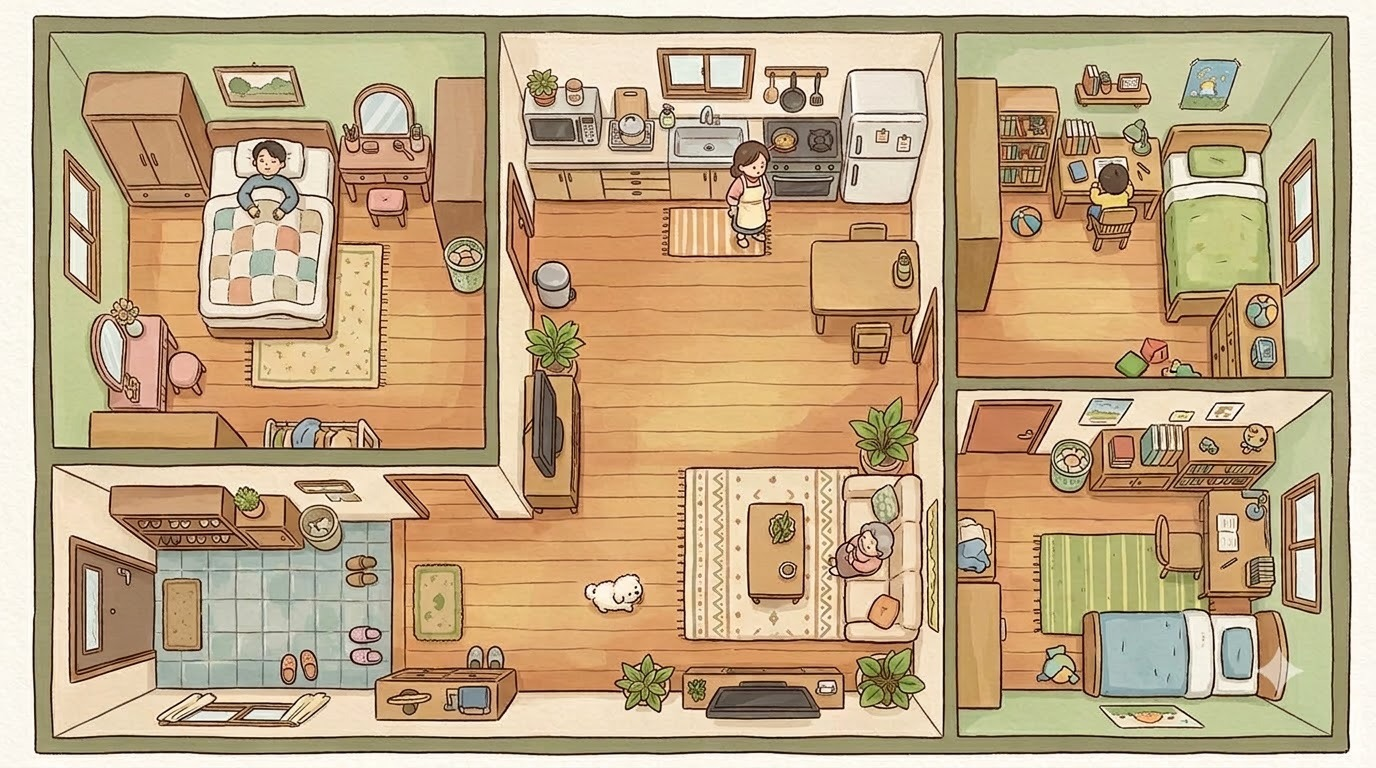
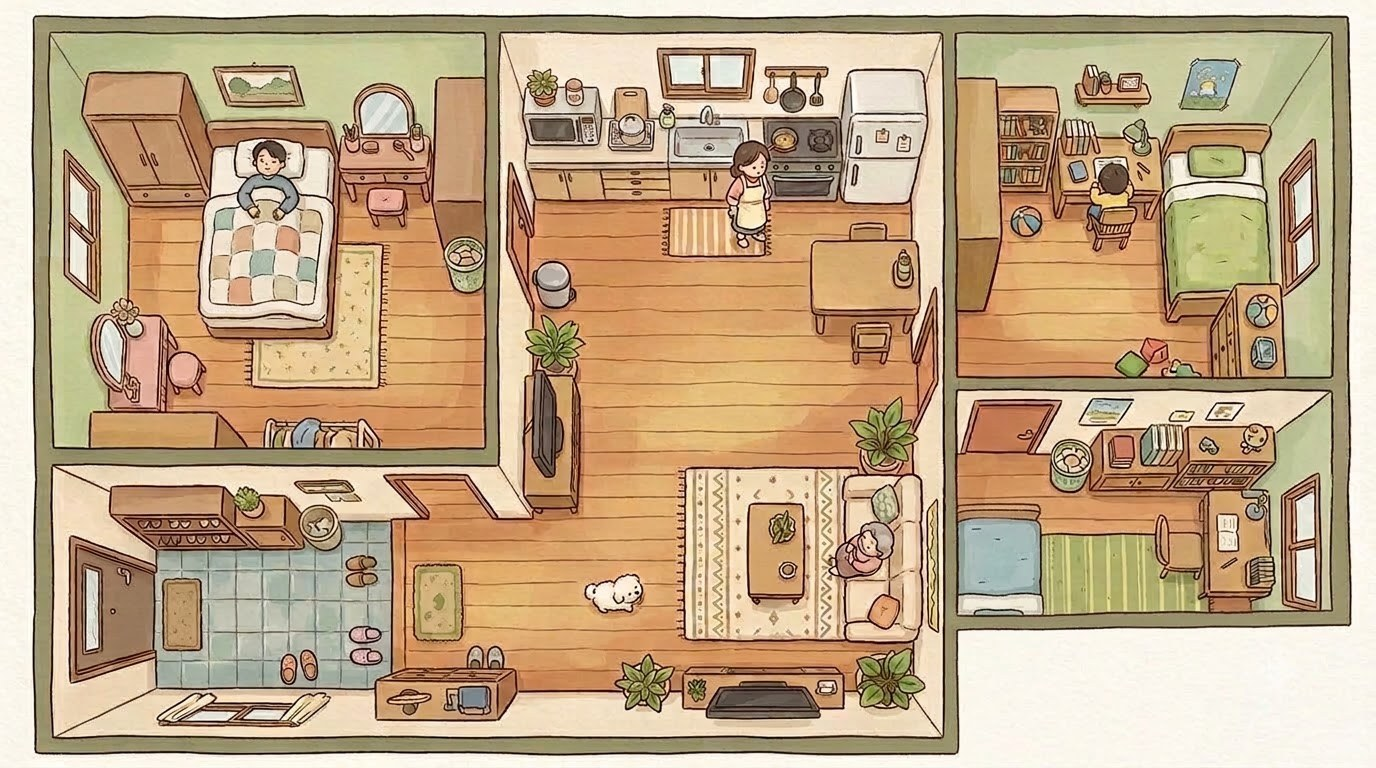
Redraw home map with white bottom-right corner; adjust bedroom layout

diff --git a/vi/index.html b/vi/index.html
@@ -223,11 +223,11 @@ const KS=t=>`<button class="chip" data-say="${t}">${t}</button>`;
 /* ---------- scenes ---------- */
 const SCENES={
  home:{map:'map.jpg',
-  walk:[[130,200,480,440],[470,180,540,290],[520,200,930,665],[150,545,530,665],[395,500,530,700],[1000,220,1330,375],[920,300,1010,380],[1000,450,1330,720],[920,400,1010,470]],
-  block:[[195,115,340,340],[85,300,205,410],[85,405,250,445],[260,410,385,445],[440,235,490,295],[805,225,920,340],[530,260,575,310],[515,360,585,515],[525,315,585,370],[740,495,810,605],[835,470,930,645],[850,400,920,470],[720,150,775,250],[585,570,640,615],[615,650,675,700],[105,480,305,550],[370,660,520,725],[1050,140,1165,230],[1160,120,1280,320],[1210,280,1285,375],[1110,340,1200,380],[1080,410,1280,490],[1195,490,1260,600],[1150,510,1210,580],[955,505,1000,600],[1075,605,1295,705]],
-  spots:{mom:[748,195],fridge:[883,135],water:[905,262],dad:[268,175],grandma:[858,553],dog:[612,592],tv:[548,440],sib:[1110,190],bag:[975,550],shoes:[362,610],book:[1160,450],door:[100,610]},
-  start:[1040,560],
-  props:[{id:'bag',img:'it_backpack.png',x:975,y:575,w:58,gone:()=>G.wear}],
+  walk:[[130,200,480,440],[470,180,540,290],[520,200,930,665],[150,545,530,665],[395,500,530,700],[1000,220,1330,375],[920,300,1010,380],[1000,450,1330,600],[920,400,1010,470]],
+  block:[[195,115,340,340],[85,300,205,410],[85,405,250,445],[260,410,385,445],[440,235,490,295],[805,225,920,340],[530,260,575,310],[515,360,585,515],[525,315,585,370],[740,495,810,605],[835,470,930,645],[850,400,920,470],[720,150,775,250],[585,570,640,615],[615,650,675,700],[105,480,305,550],[370,660,520,725],[1050,140,1165,230],[1160,120,1280,320],[1210,280,1285,375],[1110,340,1200,380],[1080,410,1280,490],[1195,490,1260,600],[1150,510,1210,580],[950,500,1045,615]],
+  spots:{mom:[748,195],fridge:[883,135],water:[905,262],dad:[268,175],grandma:[858,553],dog:[612,592],tv:[548,440],sib:[1110,190],bag:[1095,555],shoes:[362,610],book:[1160,450],door:[100,610]},
+  start:[1100,520],
+  props:[{id:'bag',img:'it_backpack.png',x:1095,y:580,w:58,gone:()=>G.wear}],
   treasures:{shoes:{item:'snack'}},
   gossip:{grandma:{line:()=>`우리 강아지는 ${K('snack')}을 아주 좋아해.`}},
   faces:{mom:['map.jpg',1376,768,715,140,72],dad:['map.jpg',1376,768,233,140,72],grandma:['map.jpg',1376,768,823,518,72],sib:['map.jpg',1376,768,1075,152,72]},
@@ -306,7 +306,7 @@ const SCENES={
  chat:{chat:true,label:'문자',missions:[{vi:()=>''}]}
 };
 ['walk','block','faces','pops','props','treasures','gossip'].forEach(k=>{SCENES.evening[k]=SCENES.home[k];});
-SCENES.evening.spots=Object.assign({},SCENES.home.spots,{mybed:[1110,640]});
+SCENES.evening.spots=Object.assign({},SCENES.home.spots,{mybed:[1065,560]});
 SCENES.home.doneMsg=()=>`아침 끝! 이제 ${K('school')}에 가요.`;SCENES.home.nextBtn=()=>`${K('school')} 가기 →`;
 /* night chat (Mystic-Messenger style): Sua, then the friend picked after school */
 const TL='vi';const HN={f:{ko:"린",vi:"Linh"},m:{ko:"민",vi:"Minh"}};

diff --git a/ko/index.html b/ko/index.html
@@ -223,11 +223,11 @@ const KS=t=>`<button class="chip" data-say="${t}">${t}</button>`;
 /* ---------- scenes ---------- */
 const SCENES={
  home:{map:'map.jpg',
-  walk:[[130,200,480,440],[470,180,540,290],[520,200,930,665],[150,545,530,665],[395,500,530,700],[1000,220,1330,375],[920,300,1010,380],[1000,450,1330,720],[920,400,1010,470]],
-  block:[[195,115,340,340],[85,300,205,410],[85,405,250,445],[260,410,385,445],[440,235,490,295],[805,225,920,340],[530,260,575,310],[515,360,585,515],[525,315,585,370],[740,495,810,605],[835,470,930,645],[850,400,920,470],[720,150,775,250],[585,570,640,615],[615,650,675,700],[105,480,305,550],[370,660,520,725],[1050,140,1165,230],[1160,120,1280,320],[1210,280,1285,375],[1110,340,1200,380],[1080,410,1280,490],[1195,490,1260,600],[1150,510,1210,580],[955,505,1000,600],[1075,605,1295,705]],
-  spots:{mom:[748,195],fridge:[883,135],water:[905,262],dad:[268,175],grandma:[858,553],dog:[612,592],tv:[548,440],sib:[1110,190],bag:[975,550],shoes:[362,610],book:[1160,450],door:[100,610]},
-  start:[1040,560],
-  props:[{id:'bag',img:'it_backpack.png',x:975,y:575,w:58,gone:()=>G.wear}],
+  walk:[[130,200,480,440],[470,180,540,290],[520,200,930,665],[150,545,530,665],[395,500,530,700],[1000,220,1330,375],[920,300,1010,380],[1000,450,1330,600],[920,400,1010,470]],
+  block:[[195,115,340,340],[85,300,205,410],[85,405,250,445],[260,410,385,445],[440,235,490,295],[805,225,920,340],[530,260,575,310],[515,360,585,515],[525,315,585,370],[740,495,810,605],[835,470,930,645],[850,400,920,470],[720,150,775,250],[585,570,640,615],[615,650,675,700],[105,480,305,550],[370,660,520,725],[1050,140,1165,230],[1160,120,1280,320],[1210,280,1285,375],[1110,340,1200,380],[1080,410,1280,490],[1195,490,1260,600],[1150,510,1210,580],[950,500,1045,615]],
+  spots:{mom:[748,195],fridge:[883,135],water:[905,262],dad:[268,175],grandma:[858,553],dog:[612,592],tv:[548,440],sib:[1110,190],bag:[1095,555],shoes:[362,610],book:[1160,450],door:[100,610]},
+  start:[1100,520],
+  props:[{id:'bag',img:'it_backpack.png',x:1095,y:580,w:58,gone:()=>G.wear}],
   treasures:{shoes:{item:'snack'}},
   gossip:{grandma:{line:()=>`Bé cún nhà mình thích ${K('snack')} lắm.`}},
   faces:{mom:['map.jpg',1376,768,715,140,72],dad:['map.jpg',1376,768,233,140,72],grandma:['map.jpg',1376,768,823,518,72],sib:['map.jpg',1376,768,1075,152,72]},
@@ -306,7 +306,7 @@ const SCENES={
  chat:{chat:true,label:'Tin nhắn',missions:[{vi:()=>''}]}
 };
 ['walk','block','faces','pops','props','treasures','gossip'].forEach(k=>{SCENES.evening[k]=SCENES.home[k];});
-SCENES.evening.spots=Object.assign({},SCENES.home.spots,{mybed:[1110,640]});
+SCENES.evening.spots=Object.assign({},SCENES.home.spots,{mybed:[1065,560]});
 SCENES.home.doneMsg=()=>`Xong buổi sáng! Bây giờ đi ${K('school')}.`;SCENES.home.nextBtn=()=>`Đi ${K('school')} →`;
 /* night chat (Mystic-Messenger style): Sua, then the friend picked after school */
 const TL='ko';const HN={f:{ko:"린",vi:"Linh"},m:{ko:"민",vi:"Minh"}};
